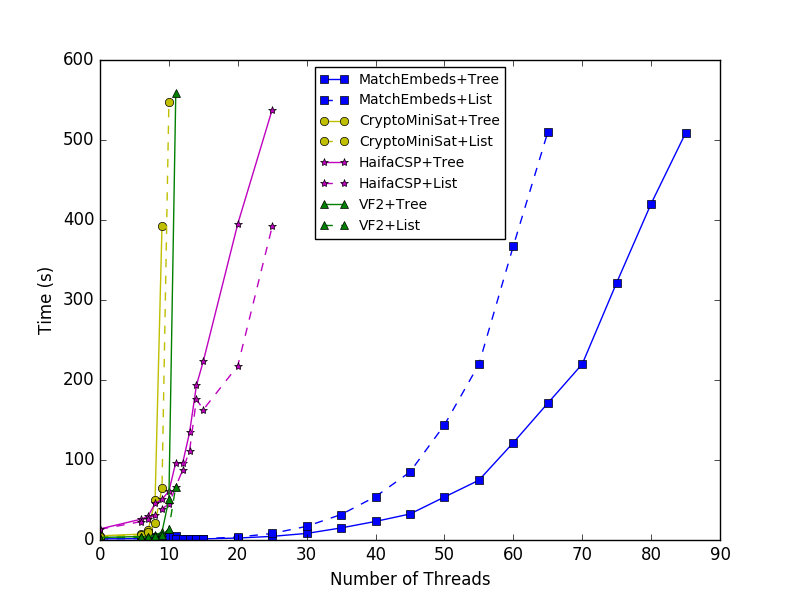
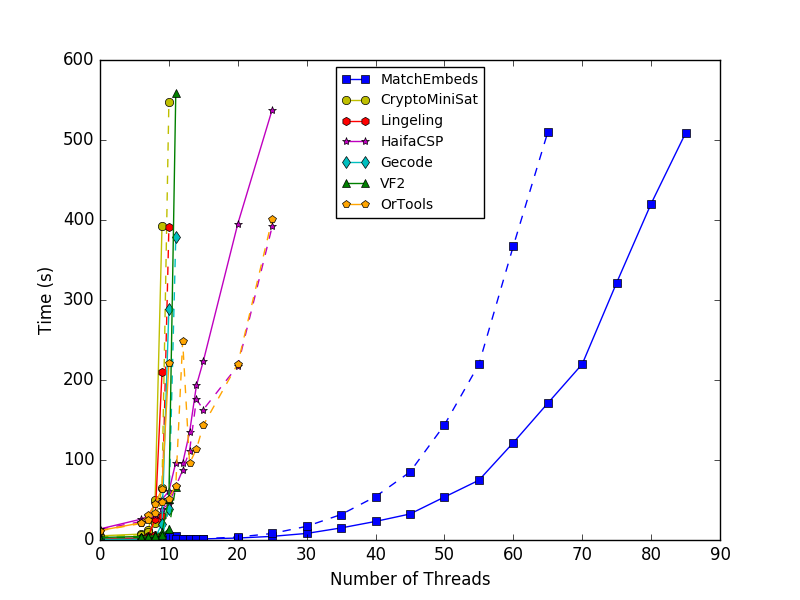
Updates PA benchmarks

diff --git a/test_tree/results/plot.py b/test_tree/results/plot.py
@@ -55,8 +55,8 @@ if len(data) < 2*len(solvers):
 
 for i in range(len(solvers)):
     (label, marker, color) = solver[solvers[i]]
-    plot(data[2*i+1], '-', marker=marker, color=color, label=label+'+Tree')
-    plot(data[2*(i+1)], '--', marker=marker, color=color, label=label+'+List')
+    plot(data[2*i+1], '-', marker=marker, color=color, label=label)
+    plot(data[2*(i+1)], '--', marker=marker, color=color)
 
 plt.xlabel('Number of Threads')
 plt.ylabel('Time (s)')
